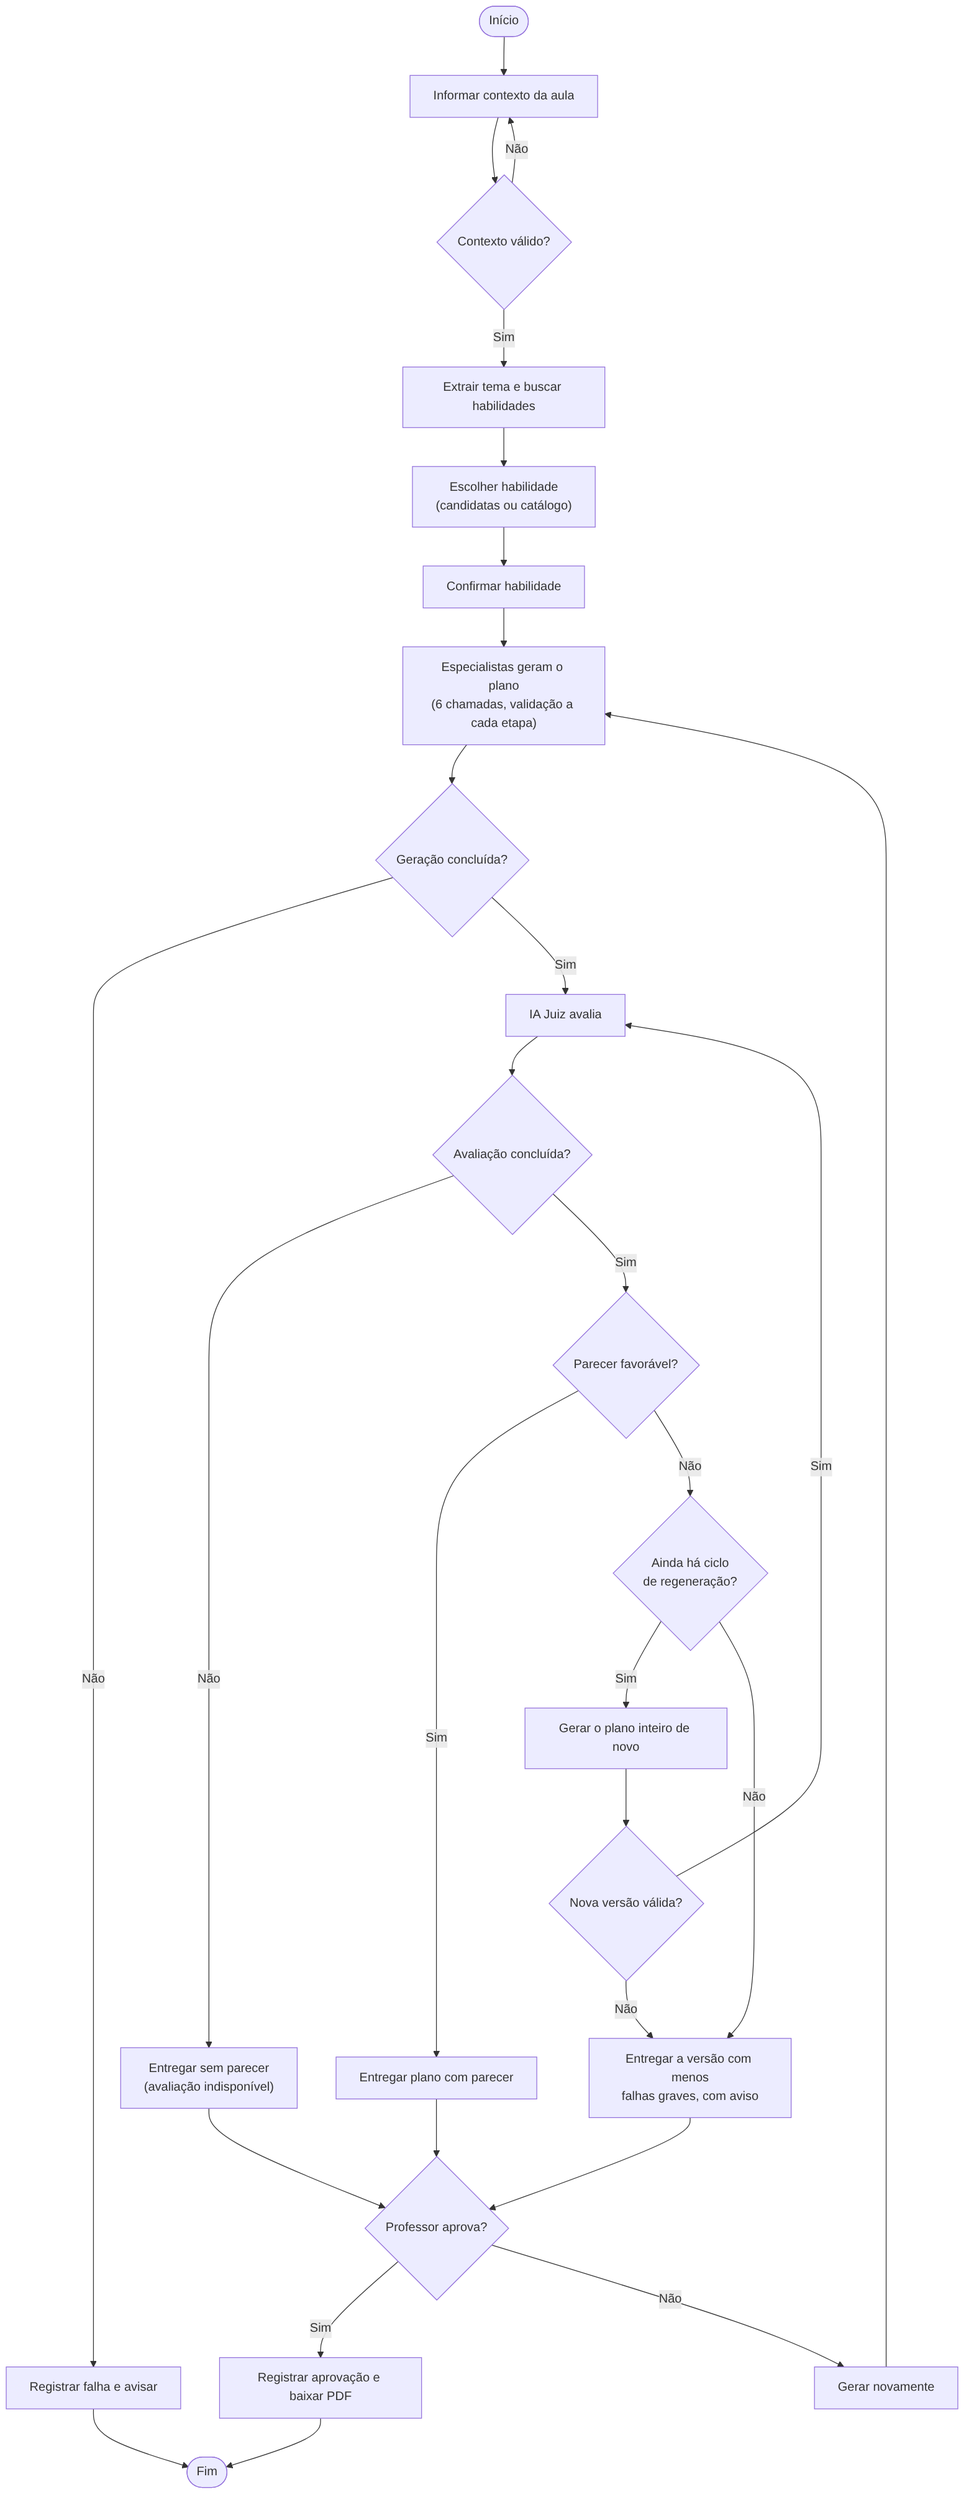
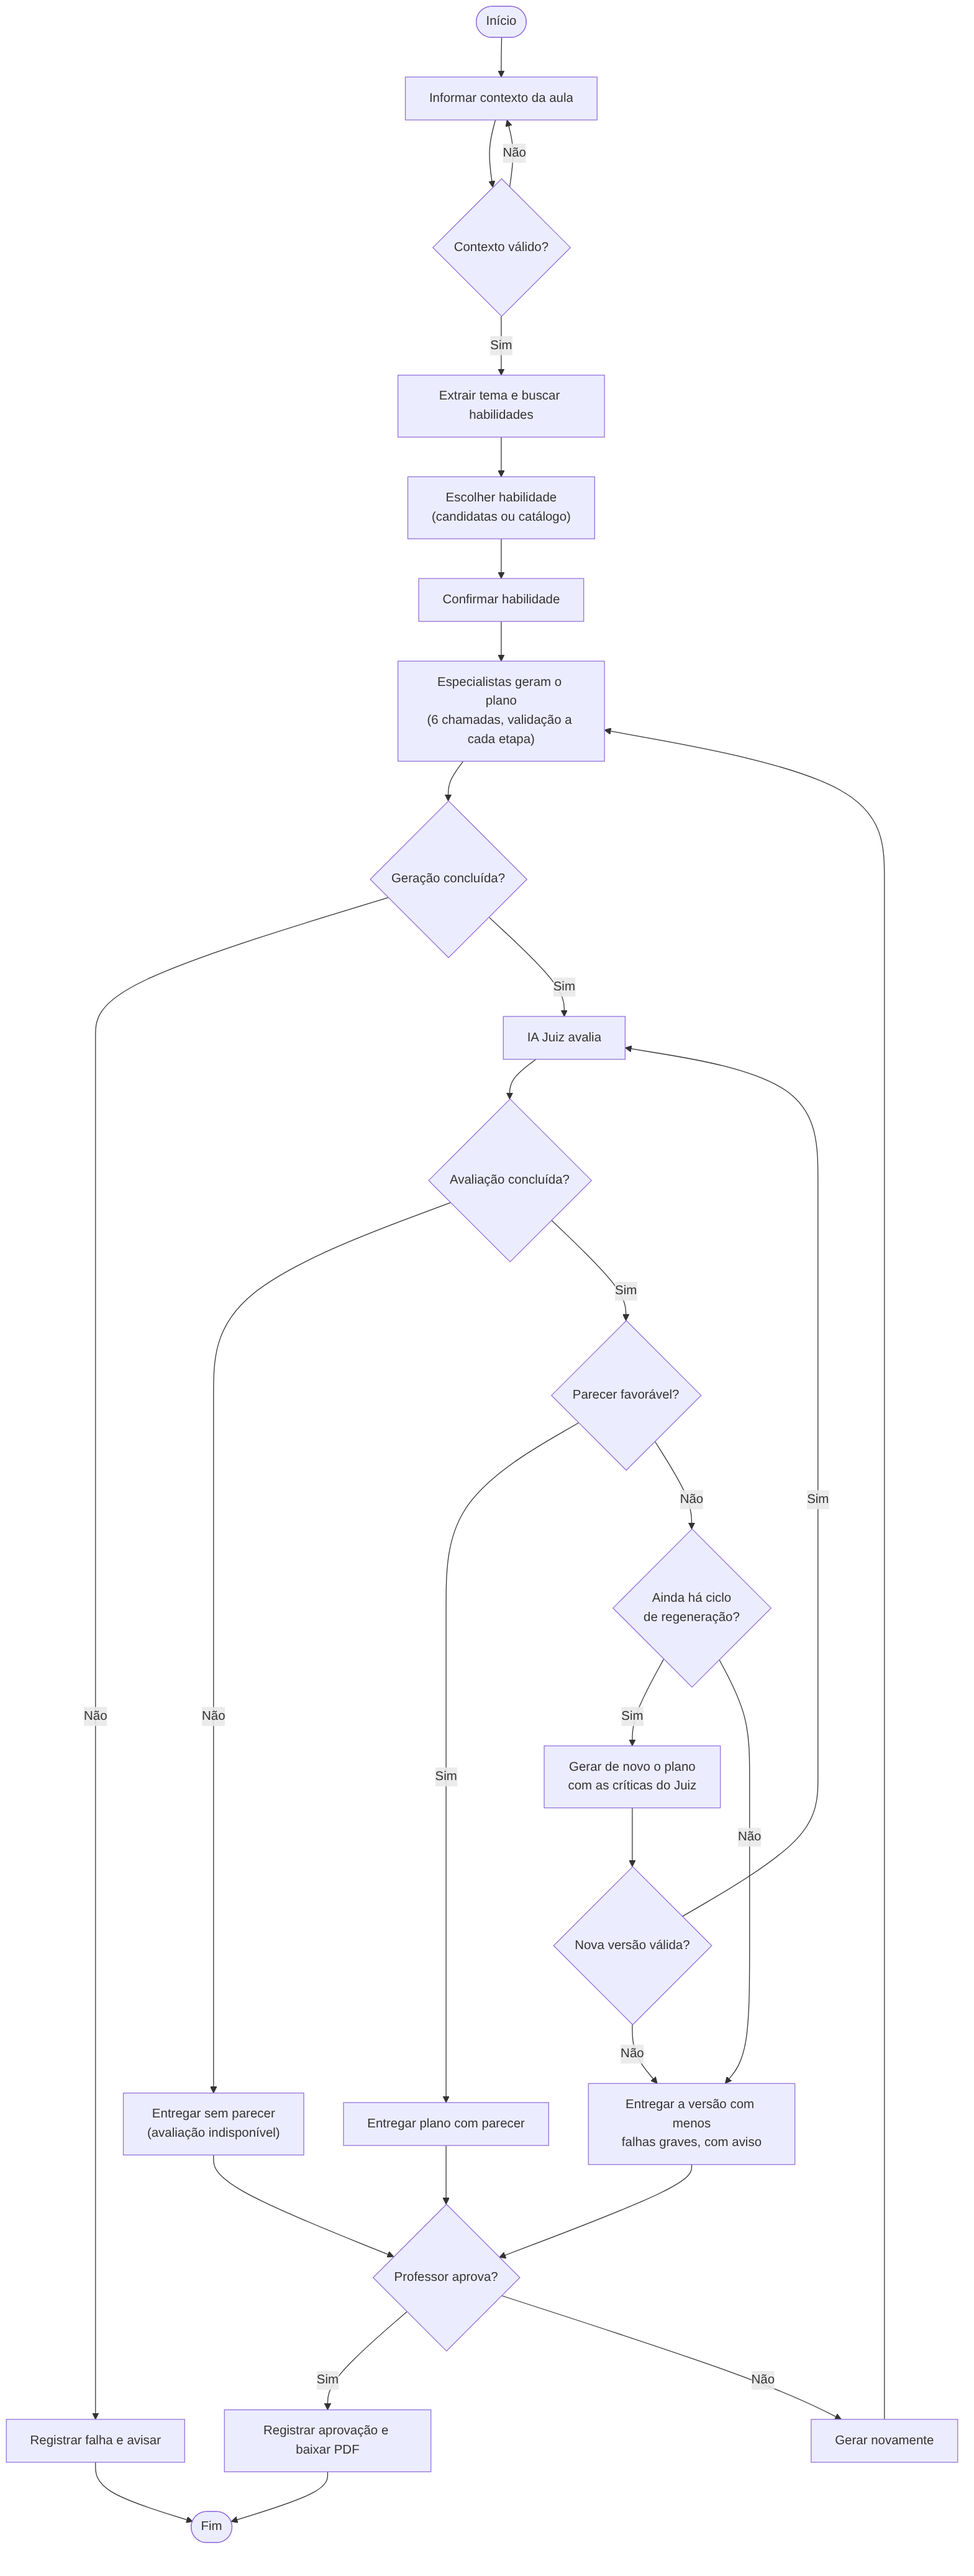
docs(diagramas): regeneracao informada nas figuras do Cap. 4 (visao geral, atividades, sequencia)
Etiquetas passam a dizer que a nova versao usa as criticas do Juiz (PoC 10). Imagens regeneradas.

Claude-Session: https://claude.ai/code/session_01RJpZSqmn6bczZgZ2MS9zRR

diff --git a/docs/diagramas/final/visao-geral.html b/docs/diagramas/final/visao-geral.html
@@ -74,7 +74,7 @@
   </div>
 
   <div class="loop"><svg viewBox="0 0 640 58" preserveAspectRatio="none"><path d="M560 0 V30 H80 V4" fill="none" stroke="#0f6b84" stroke-width="2.6" stroke-dasharray="7 6"/><path d="M72 12 L80 2 L88 12" fill="none" stroke="#0f6b84" stroke-width="2.6" stroke-linecap="round" stroke-linejoin="round"/></svg></div>
-  <p style="margin:-18px 0 0;font-size:16.5px;color:#0f6b84;text-align:center">Se o parecer não for favorável, o plano é escrito de novo uma vez; se nenhuma versão tiver parecer favorável, o professor recebe a que tem menos falhas graves, com um aviso.</p>
+  <p style="margin:-18px 0 0;font-size:16.5px;color:#0f6b84;text-align:center">Se o parecer não for favorável, o plano é escrito de novo uma vez, usando as críticas do Juiz; se nenhuma versão tiver parecer favorável, o professor recebe a que tem menos falhas graves, com um aviso.</p>
 
   <div class="legend">
     <span><i class="sw" style="background:var(--hum-bg);border-color:var(--hum)"></i>Pessoa (o professor decide)</span>

diff --git a/docs/diagramas/diagramas-finais.md b/docs/diagramas/diagramas-finais.md
@@ -98,7 +98,7 @@ sequenceDiagram
     SV->>J: Avaliar plano (rubrica de 6 critérios)
     J-->>SV: Parecer e decisão da política
     opt Parecer não favorável (até 1 vez)
-        SV->>ORQ: Gerar o plano inteiro de novo
+        SV->>ORQ: Gerar de novo com a versão anterior e as críticas do Juiz
         ORQ-->>SV: Nova versão
         SV->>J: Avaliar a nova versão
         J-->>SV: Novo parecer
@@ -132,7 +132,7 @@ flowchart TD
     FJ -->|"Sim"| FAV{"Parecer favorável?"}
     FAV -->|"Sim"| EN["Entregar plano com parecer"]
     FAV -->|"Não"| CI{"Ainda há ciclo<br/>de regeneração?"}
-    CI -->|"Sim"| RG["Gerar o plano inteiro de novo"]
+    CI -->|"Sim"| RG["Gerar de novo o plano<br/>com as críticas do Juiz"]
     RG --> RV{"Nova versão válida?"}
     RV -->|"Sim"| J
     RV -->|"Não"| MV
